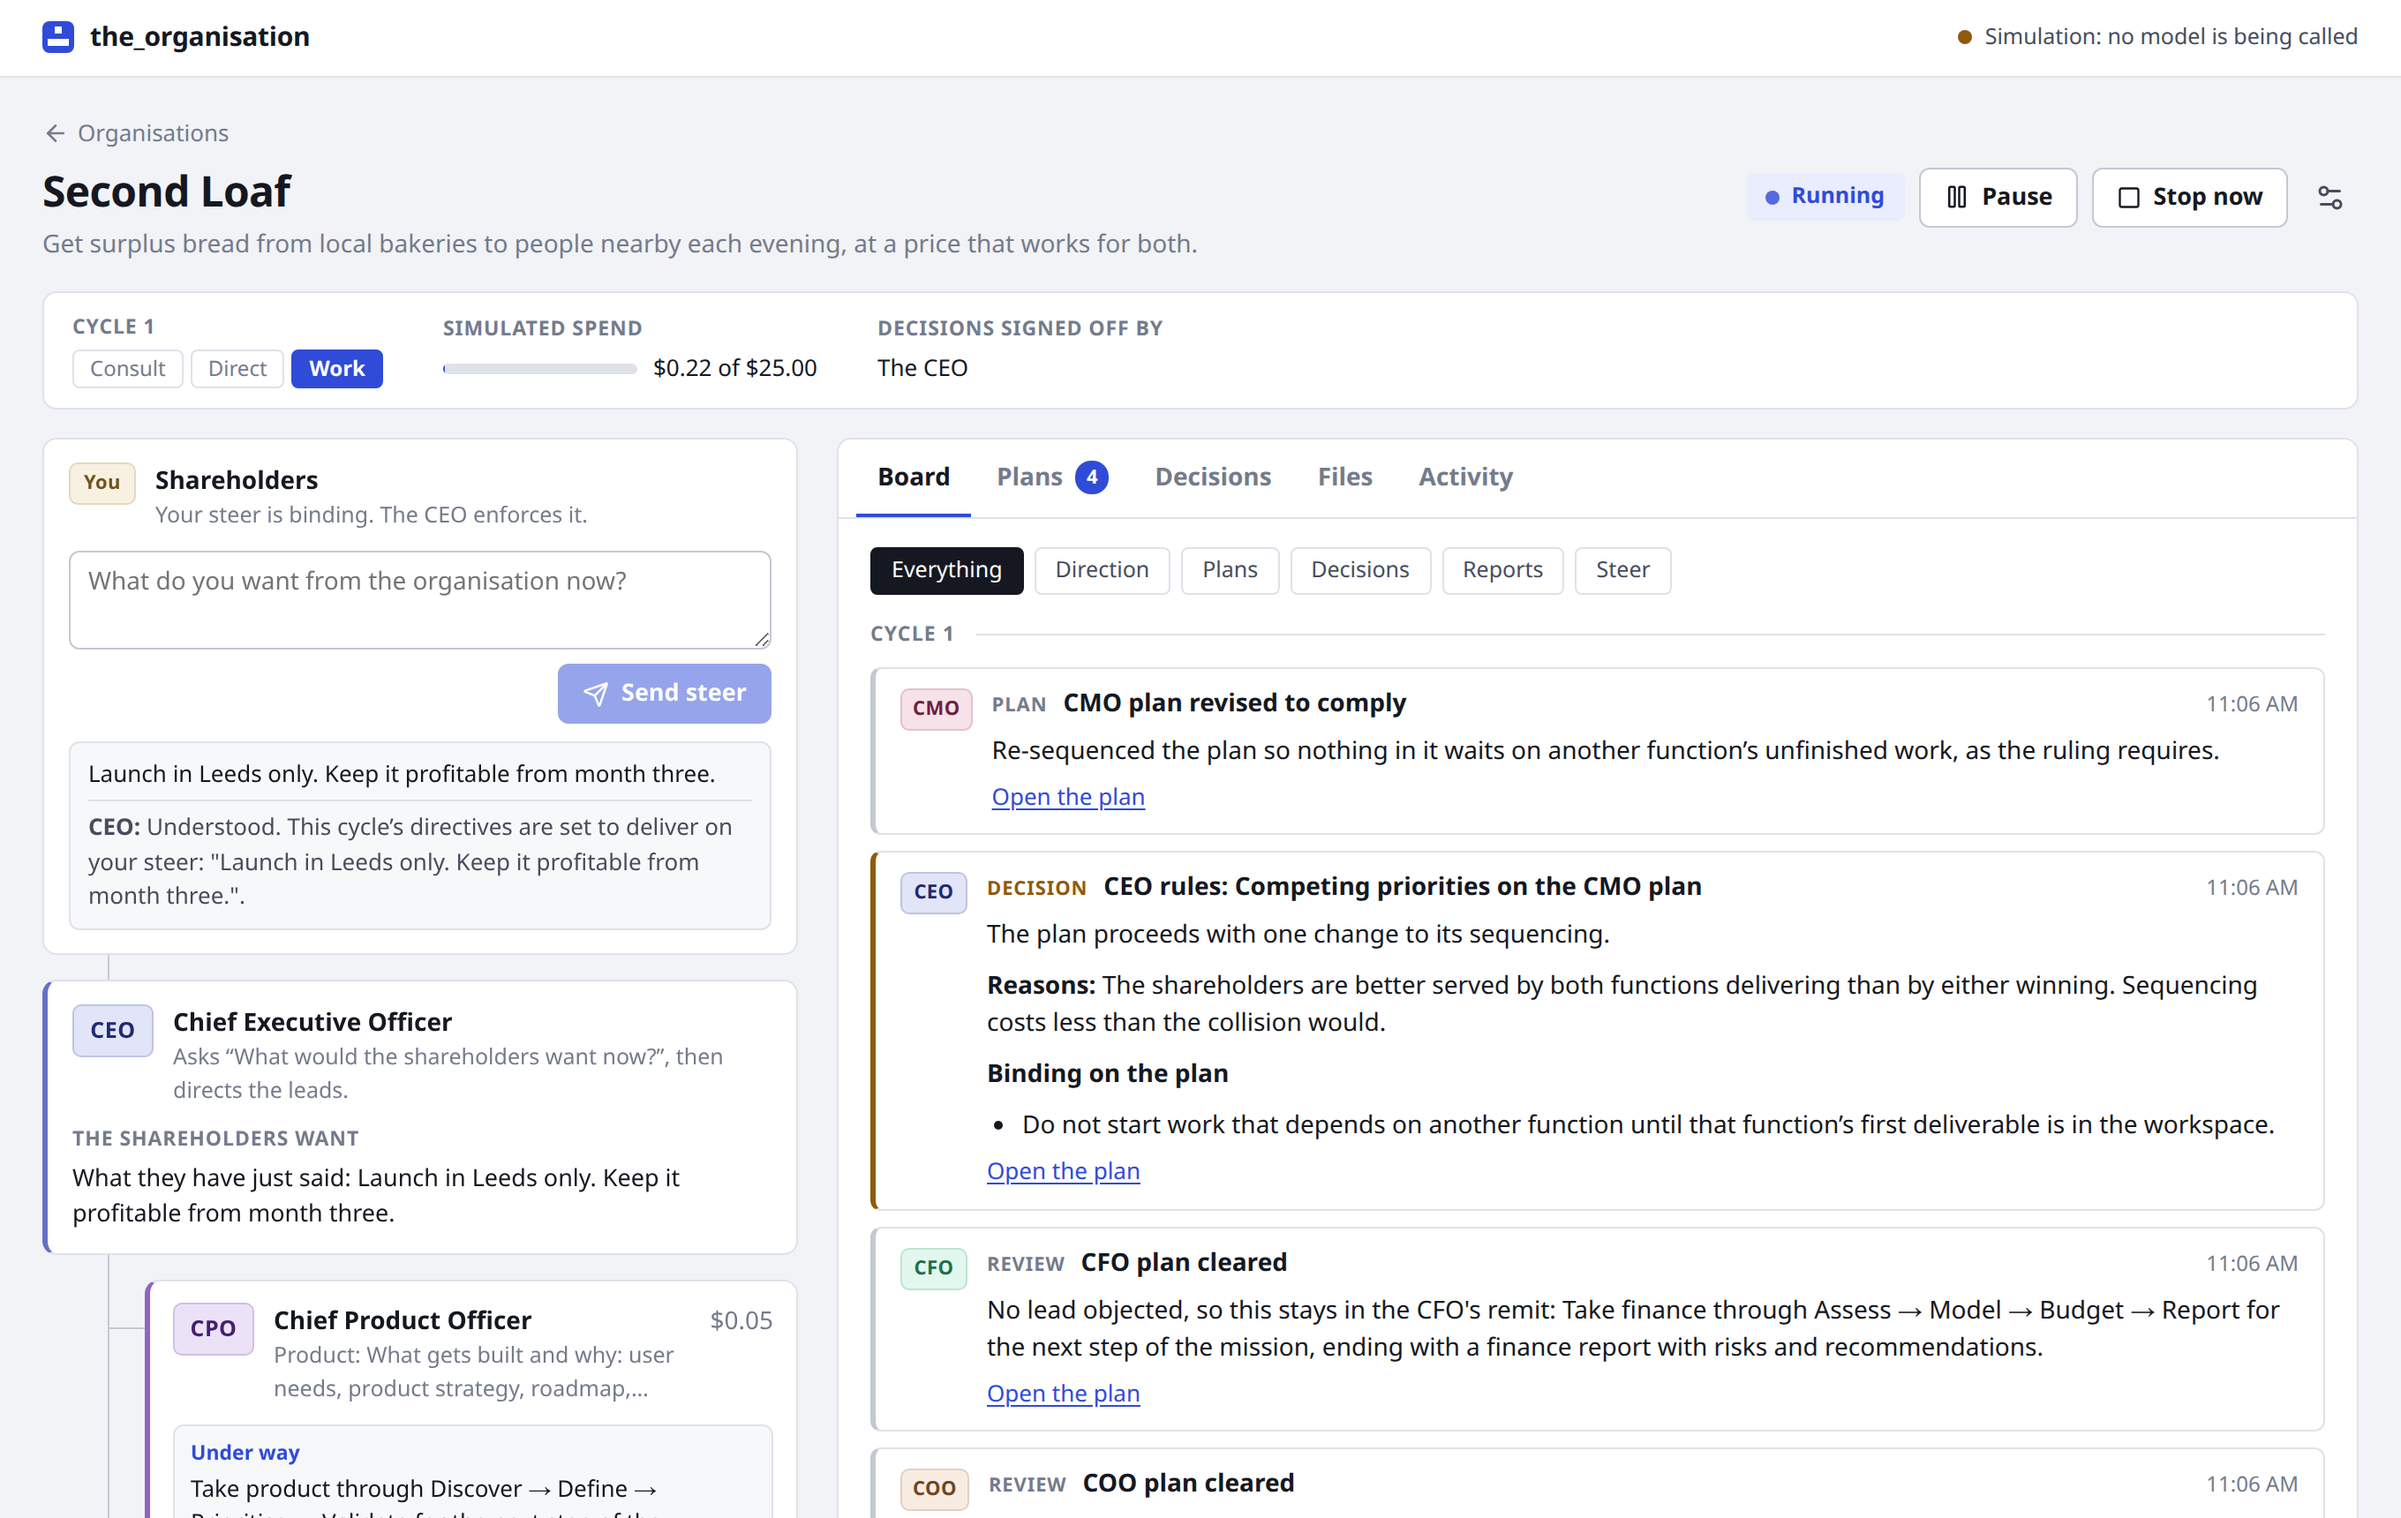
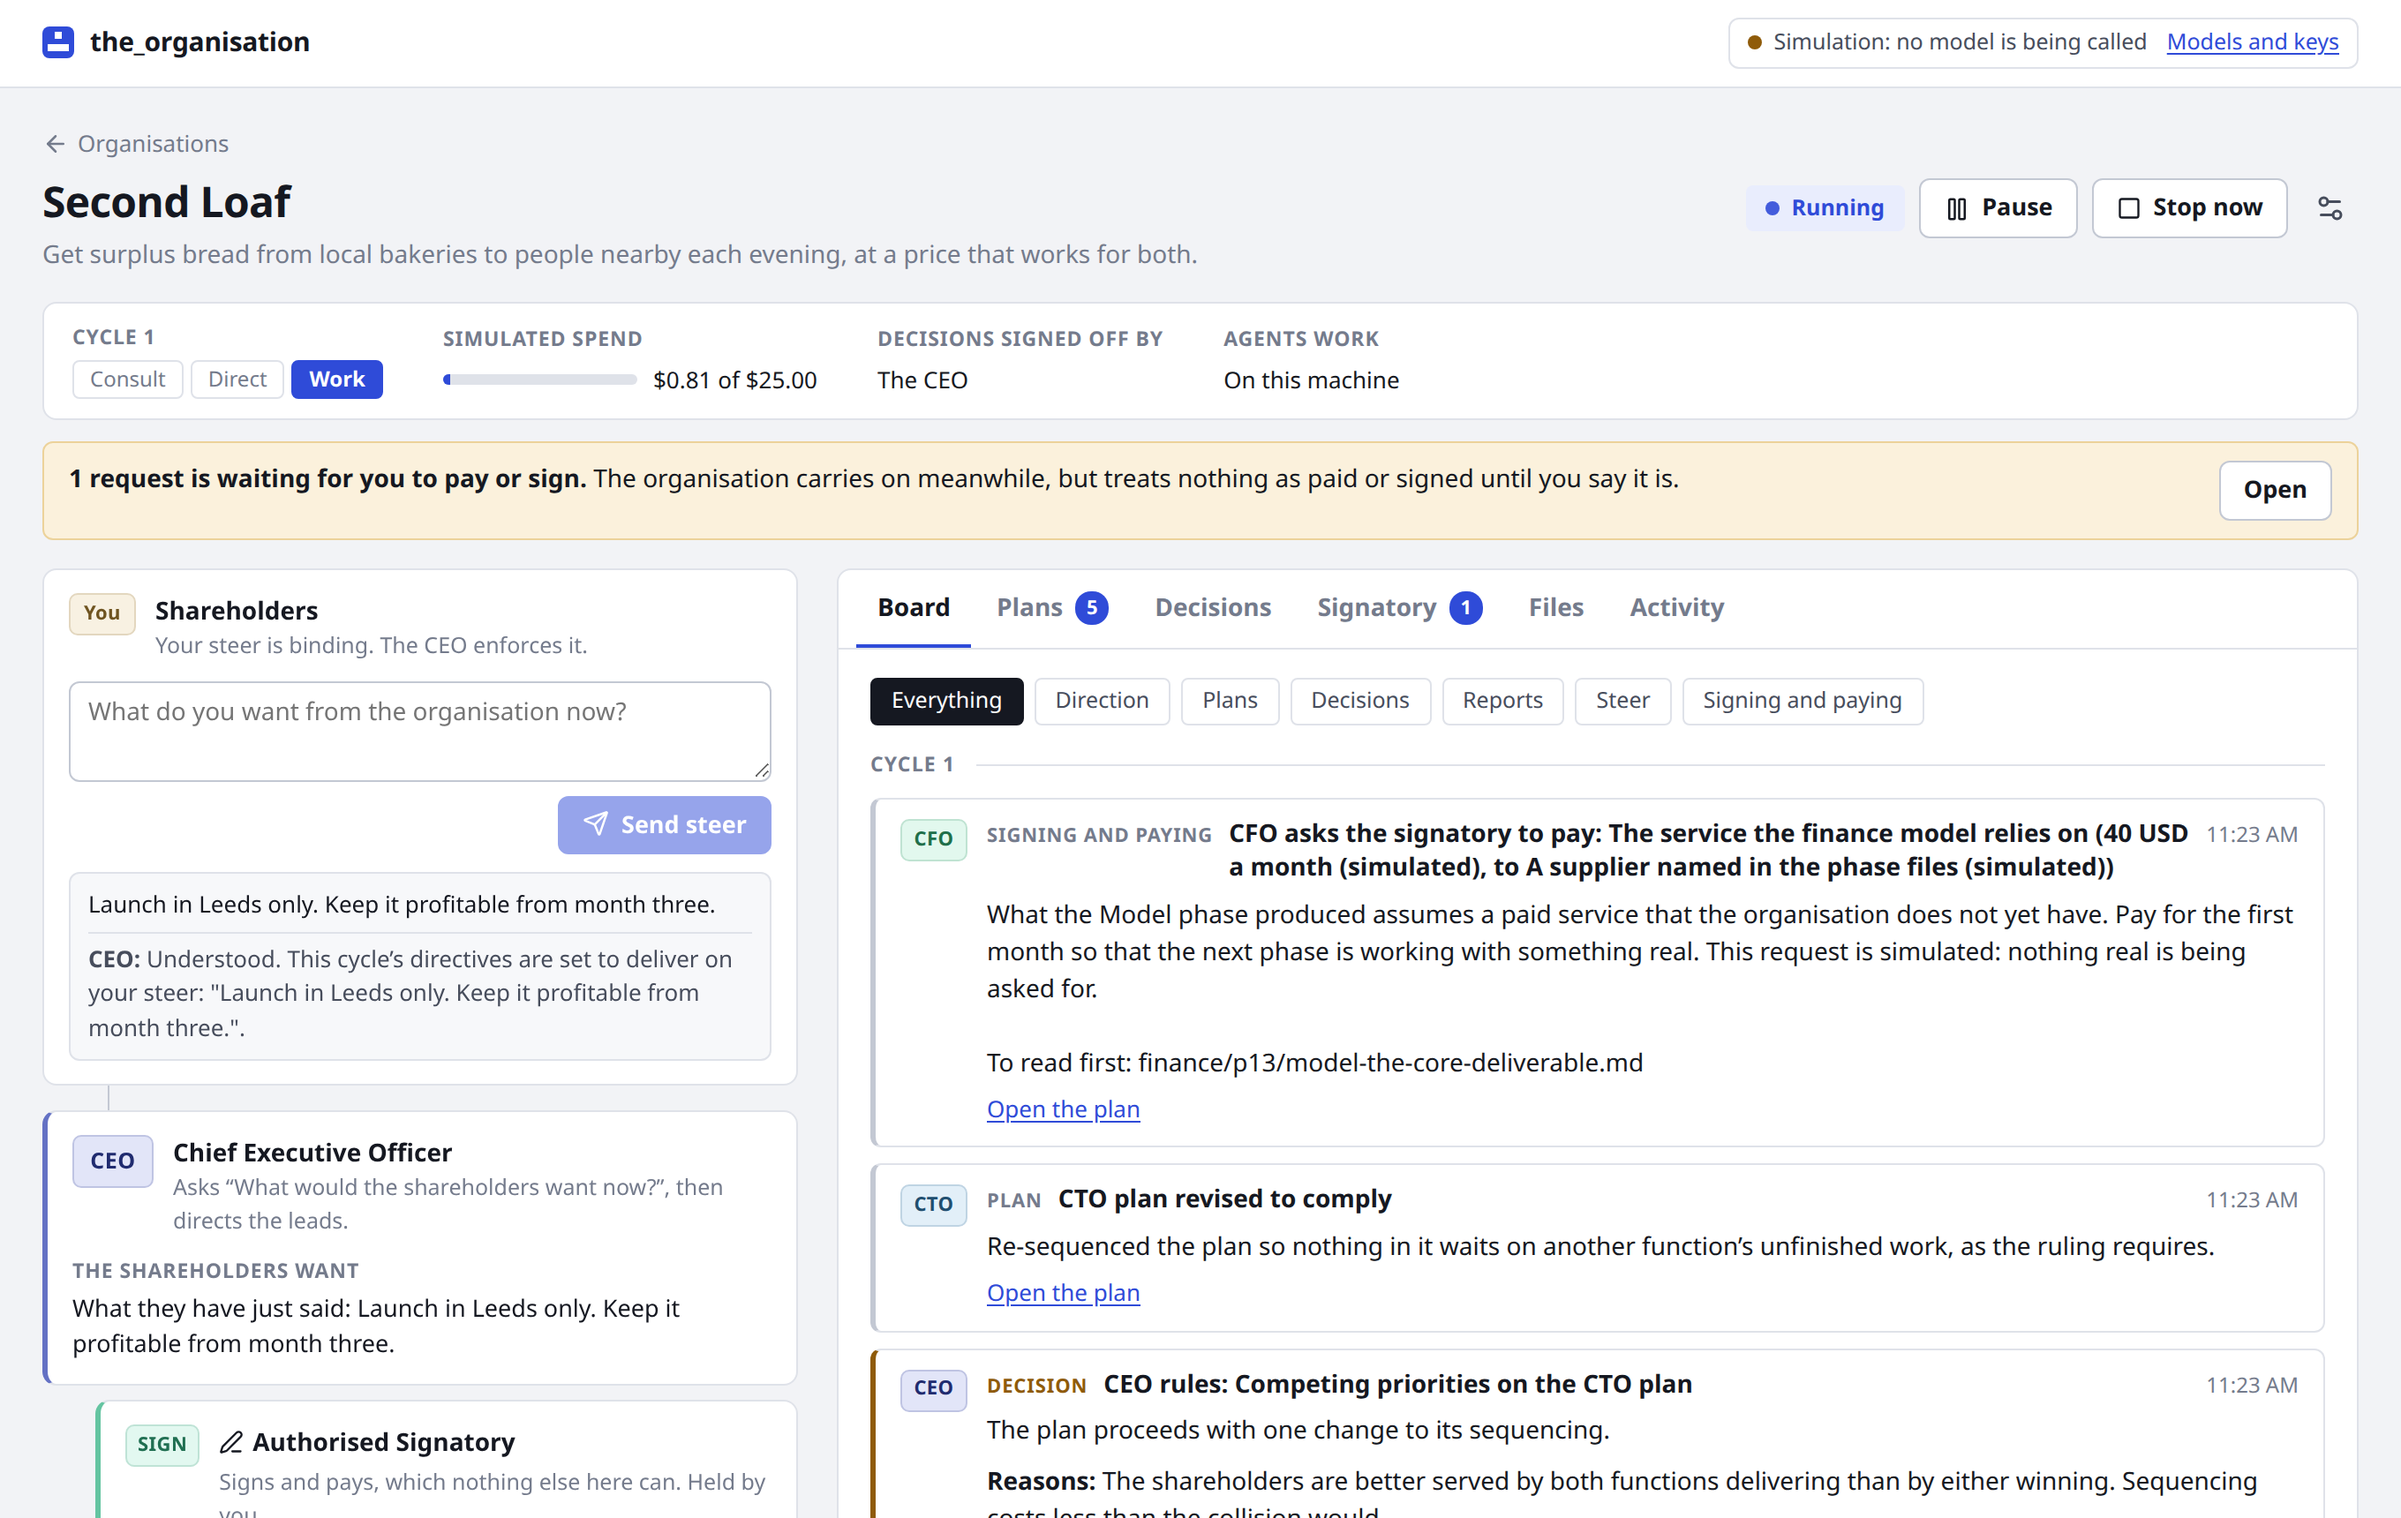
Rewrite the top of the README for people who build with agents, with a real run as evidence
A plain statement of what the program is and why it might be wanted, a
one-minute start, the first organisation run on real models with what it
did and what it used, and a table of what has and has not been run for
real. The reference sections follow as they were. Screenshots retaken on
the current interface.

diff --git a/README.md b/README.md
@@ -1,32 +1,46 @@
 # the_organisation
 
-Describe an idea and get an organisation of AI agents that works on it: a CEO who answers to you, an executive team where every lead follows a standard operating profile, and the agents each lead directs. It runs in a loop. When all the work is done, the CEO asks "What would the shareholders want now?" and the next cycle begins.
+**One prompt in. A company of AI agents out.**
 
-You are the shareholders. You give steer; the CEO enforces it. The organisation cannot pay for anything or sign anything: for that it asks its [Authorised Signatory](#signing-and-paying), which is you unless you seat an AI there, and you do the paying and signing yourself, outside this program.
+Describe an idea and get a working organisation: a CEO that answers to you, an executive team in which every lead runs a standard operating procedure, and agents under each lead doing the work in parallel. They plan, disagree, take it to the board, build, check their own work and report. Then the CEO asks *"What would the shareholders want now?"* and the next cycle begins. It keeps going until you pause it or the budget runs out.
 
-Built around Claude, and able to run on other makers' models as well (OpenAI, Google, Meta and the main Chinese labs), or on the Claude Code installed on your machine in place of a key, with a web interface for establishing organisations and watching them work.
+You are the shareholders. You steer; the CEO enforces it. The agents cannot spend money or sign anything: that goes through one seat, the Authorised Signatory, which is you unless you decide otherwise.
 
-![The dashboard of a running organisation: the shareholders' steer and the CEO on the left, the board feed on the right](docs/dashboard.png)
+![The dashboard of a running organisation](docs/dashboard.png)
 
-## Quick start
+*An organisation mid-cycle, here in simulation. On the left, your steer and the CEO's reply. On the right, the board: the CFO has asked for a payment, the CTO has revised its plan to comply with a ruling, and the CEO has ruled on a clash between two leads.*
 
-Requires Node 22 or later.
+## Why you might want it
+
+- **It is an organisation, not a swarm.** A CEO, up to eight executive leads from a library of fourteen (CTO, CPO, CMO, CFO, COO, General Counsel and the rest, or seats you define yourself), and one to eight agents under each. Every lead works to an operating profile, such as Spec → Build → Test → Release, and a phase has to pass the lead's gate before the next begins. Work that fails the gate is sent back.
+- **It governs itself.** A lead decides whatever is inside its remit. When two leads' priorities collide, each states a position and the CEO rules, or an independent judge if you seat one. Every decision is on the record, with its reasons.
+- **It does not stop, and it cannot run away.** One cycle's reports set off the next round of work, for as long as you let it. A hard budget pauses it. So does a cycle limit. You can pause, stop, steer or change any setting while it runs, and all of its state is plain JSON on disk, so it carries on where it left off after a restart.
+- **A person holds the purse.** Agents can draft a contract and choose a supplier, but only the Authorised Signatory can pay or sign, and a person does that, outside the program. The organisation asks, gets on with other work, and treats nothing as paid until you say it is.
+- **Use the models you have, or none.** Claude, GPT, Gemini, Muse, Kimi, DeepSeek, Qwen, GLM, Hunyuan, MiniMax, Doubao, and anything on OpenRouter, with executives on one model and agents on another if you like. Any OpenAI-compatible endpoint works too, so a model on your own machine (llama.cpp, Ollama, LM Studio, vLLM) can do the work. And with no API key at all it can run on the Claude Code you already have, on your own subscription login.
+- **Try it in a minute, for nothing.** With nothing connected it runs in simulation: every seat gives a scripted answer, the whole loop turns, and every control works.
+- **See everything.** A web interface shows the hierarchy and who is busy with what, the board feed, every plan with its tasks and gate reviews, every decision, the files the agents write, and what each call cost.
+
+## Start in a minute
+
+Needs Node 22 or later.
 
 ```bash
+git clone https://github.com/PolyLabs-research/the_organisation.git
+cd the_organisation
 npm install
 npm run dev
 ```
 
-Open <http://127.0.0.1:4780>.
+Open <http://127.0.0.1:4780>, choose **Establish**, and describe an idea.
 
-Until it is given an API key the server runs in **simulation**: every seat gives a scripted answer, so you can watch the whole loop work and try every control without spending anything. To call real models, open **Models and keys** in the interface and add a key for any of the providers listed [below](#models-and-keys), or give keys in a file:
+That runs in **simulation**, which spends nothing. To put real models behind it, open **Models and keys** and do one of two things:
 
-```bash
-cp .env.example .env    # then set ANTHROPIC_API_KEY, OPENAI_API_KEY, or any of the others in that file
-npm run dev
-```
+- **Add an API key** for any of the providers [listed below](#models-and-keys), or give keys in a file: `cp .env.example .env`, then set `ANTHROPIC_API_KEY`, `OPENAI_API_KEY` or any of the others in it.
+- **Connect Claude Code**, with no key, if it is installed on this machine. Organisations then run on its login: see [Claude Code in place of a key](#claude-code-in-place-of-a-key).
 
-To establish an organisation from a single prompt on the command line (with the server running):
+Keys are the default: a new organisation starts on a key's model whenever a key offers one.
+
+To establish an organisation from one prompt on the command line, with the server running:
 
 ```bash
 npm run establish -- "A marketplace where local bakeries sell the day's surplus bread"
@@ -35,9 +49,65 @@ npm run establish -- --hosted --budget 40 "…"    # plans carried out in hosted
 npm run establish -- --model openai:gpt-6.1-sol --agent-model deepseek:deepseek-flash "…"
 ```
 
-With no key at all, the Claude Code installed on this machine can be connected on the same page, and organisations then run on its login: see [Claude Code in place of a key](#claude-code-in-place-of-a-key). Keys are the default, and what a new organisation starts on whenever there is one.
-
 For a production-style run, `npm run build && npm start`.
+
+## A real run
+
+On 6 November 2026 one small organisation was run from start to finish on real models: one lead (a CTO) with one agent, for one cycle, on Claude Haiku 5.5 through a Claude Code login. The whole prompt was:
+
+> A one-page website that tells neighbours when the community garden is open and what is ready to pick this week.
+
+![The dashboard after the run: the CTO's report to the board](docs/live-run.png)
+
+| | |
+| --- | --- |
+| Time | 11 minutes |
+| Model replies | 59 |
+| Tokens | about 900,000, most of them read from cache |
+| What the API would have charged | $0.15 |
+| Files written | 8: a working page (HTML, CSS, a JSON data file, a README), and a spec, build notes, a test report and release notes |
+
+What it did, unprompted beyond that one sentence:
+
+1. The CTO proposed the work, the CEO set the cycle's direction, and the CTO drafted a plan on its operating profile: Spec → Build → Test → Release.
+2. The CTO flagged a point that cut across remits. It went to the board, and the CEO ratified what the board agreed.
+3. Spec and Build passed their gates. **Test did not.** The lead found the page's script longer than its own spec allowed, sent it back for rework, and let the phase through once the script was fixed.
+4. Release was sent back once as well, and was in the end accepted as conditional, not passed.
+5. The report to the board says the site is built and documented but **not verified in a browser**, because agents working on this machine cannot run anything, and that nothing was bought or signed.
+
+The page it built does render. Every fact the organisation was not given, such as the garden's name, its hours and its address, is marked as a placeholder instead of being made up:
+
+<img src="docs/live-site.png" alt="The page the organisation built, with each unknown fact marked PLACEHOLDER" width="560">
+
+That is one small run, on one model, on one day. It is here as evidence that the loop holds together on a real model, not as a claim about what larger organisations will do.
+
+## Status
+
+This is early software, and the README says plainly what has been run for real and what has not.
+
+| Way of running | Where it stands |
+| --- | --- |
+| Simulation | Complete: the whole loop, and every control. |
+| Claude Code login | One small organisation run from start to finish (above), and about twenty short calls. Tried on Linux only. |
+| Anthropic's API and the eleven other providers | Built, and tested against local stand-ins that speak their protocols, with whole organisations run on them. Not yet called for real: no key was to hand. |
+| Hosted sessions (Claude Managed Agents) | Built, and tested against a stand-in for the API. Not yet run for real. |
+| Tests | 431, among them whole organisations run through the loop. The suite takes about four seconds. |
+
+If you run it on something in the lower rows, start small, with one lead and a small budget, and expect the odd rough edge. A report of what you find is the most useful contribution there is.
+
+## Contents
+
+- [How an organisation works](#how-an-organisation-works)
+- [The interface](#the-interface)
+- [Signing and paying](#signing-and-paying)
+- [Models and keys](#models-and-keys), and [Claude Code in place of a key](#claude-code-in-place-of-a-key)
+- [Spend and limits](#spend-and-limits)
+- [What agents can and cannot do](#what-agents-can-and-cannot-do)
+- [Hosted sessions](#hosted-sessions-claude-managed-agents)
+- [Data](#data) and [Configuration](#configuration)
+- [Development](#development)
+- [Limits of this version](#limits-of-this-version)
+- [Contributing](#contributing)
 
 ## How an organisation works
 
@@ -382,3 +452,9 @@ A provider with an API of its own implements two methods ([`src/server/providers
 - A board decision is one round of positions and a ruling; there is no further debate.
 - Steer given mid-cycle changes plans, not tasks already running: an agent finishes the task it is on.
 - Seats are fixed once an organisation is established. Agent allocation, the arbiter and every limit can be changed afterwards.
+
+## Contributing
+
+Issues and pull requests are welcome. The most useful thing to send is what happened when you ran it on a provider or a model it has not yet been run on (see [Status](#status)): what worked, what was refused, and what it cost.
+
+For changes to the code: `npm test` and `npm run typecheck` should pass, a change in behaviour comes with a test that fails without it, and the README is the description of what the program does, so it changes with the code.
